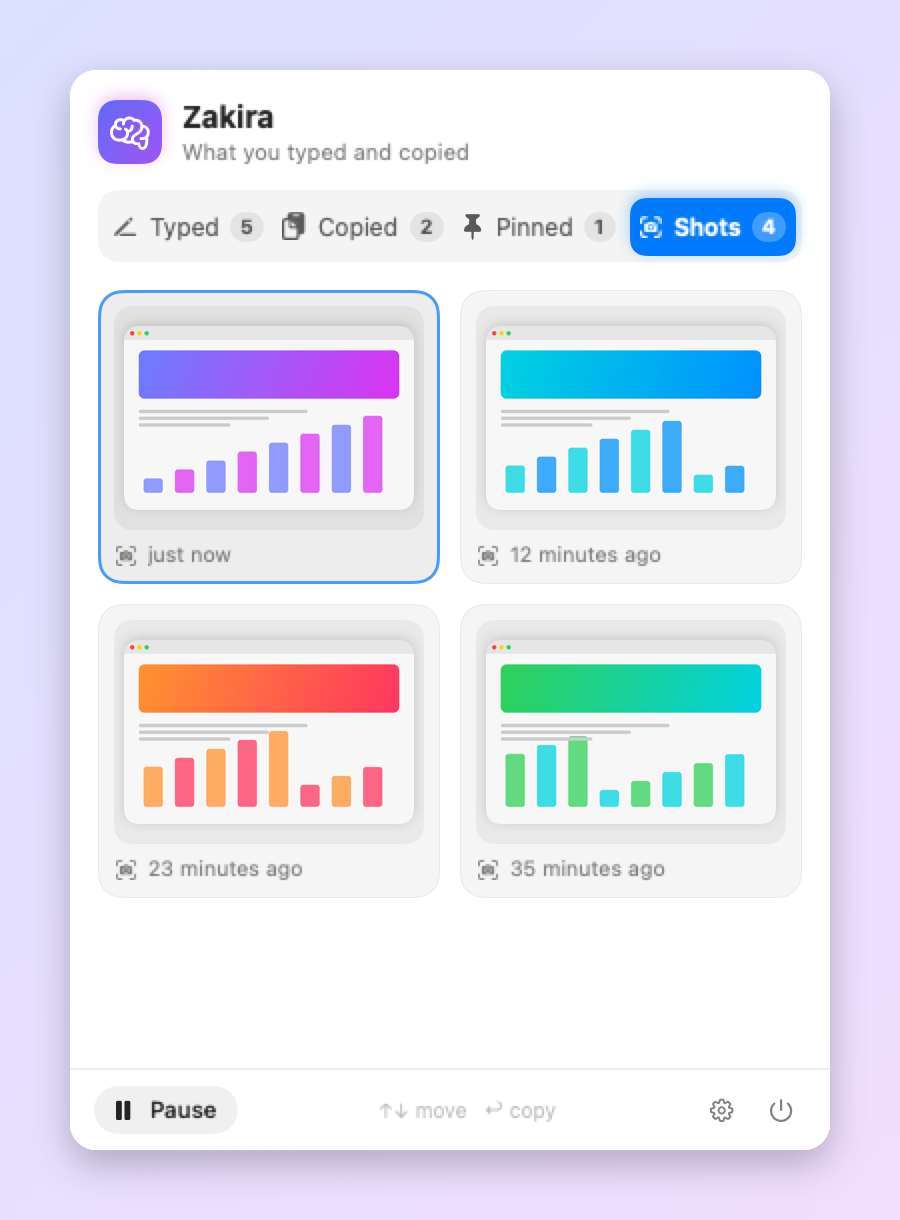
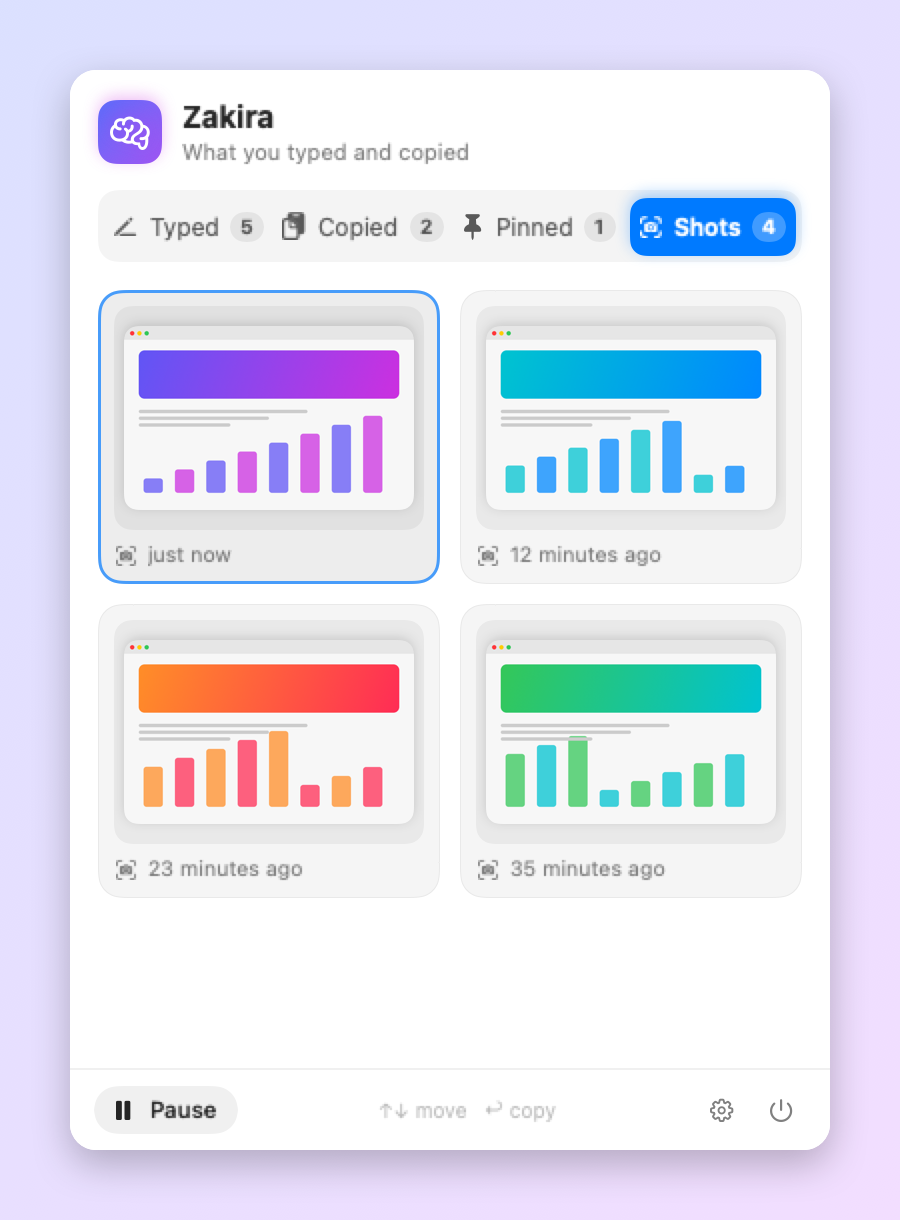
Split the entry card view so slower compilers can type-check it

diff --git a/Sources/Views.swift b/Sources/Views.swift
@@ -297,94 +297,116 @@ struct EntryCard: View {
     @State private var hovering = false
 
     var body: some View {
+        card
+            .contentShape(RoundedRectangle(cornerRadius: 12))
+            .onTapGesture(perform: onCopy)
+            .onHover { h in withAnimation(motion(.easeOut(duration: 0.15))) { hovering = h } }
+            .help(T("اضغط للنسخ", "Click to copy"))
+            .modifier(EntryAccessibility(label: accessibilityText, selected: selected, pinned: pinned,
+                                         isImage: entry.isImage, onCopy: onCopy, onPin: onPin, onDelete: onDelete))
+    }
+
+    // Split into small pieces so every Swift compiler can type-check it quickly.
+
+    private var card: some View {
+        content
+            .environment(\.layoutDirection, entry.isRTL ? .rightToLeft : .leftToRight)
+            .padding(.horizontal, 12)
+            .padding(.vertical, 10)
+            .background(background)
+            .overlay(border)
+            .overlay(alignment: .topTrailing) { hoverButtons }
+            .overlay { copiedFlash }
+    }
+
+    private var content: some View {
         HStack(alignment: .top, spacing: 10) {
             AppIcon(bundleID: entry.bundleID)
                 .frame(width: 22, height: 22)
                 .padding(.top, 1)
             VStack(alignment: .leading, spacing: 5) {
-                if let data = entry.image, let img = ImageCache.image(for: entry.id, data: data) {
-                    Image(nsImage: img)
-                        .resizable()
-                        .interpolation(.high)
-                        .aspectRatio(contentMode: .fit)
-                        .frame(maxWidth: .infinity, maxHeight: 110, alignment: .leading)
-                        .clipShape(RoundedRectangle(cornerRadius: 6, style: .continuous))
-                        .accessibilityHidden(true)
-                } else {
-                    Text(entry.text)
-                        .font(.system(size: 13.5))
-                        .lineSpacing(2)
-                        .lineLimit(hovering ? 8 : 2)
-                        .multilineTextAlignment(.leading)
-                        .frame(maxWidth: .infinity, alignment: .leading)
-                }
-                TimelineView(.periodic(from: .now, by: 30)) { _ in
-                    HStack(spacing: 4) {
-                        if pinned && tab != .pinned {
-                            Image(systemName: "pin.fill").font(.system(size: 8)).foregroundStyle(.orange)
-                        }
-                        Text(entry.appName)
-                        Text("·")
-                        Text(relative(entry.date))
-                    }
-                    .font(.system(size: 10.5))
-                    .foregroundStyle(.secondary)
-                    .lineLimit(1)
-                }
+                mainContent
+                meta
             }
         }
-        .environment(\.layoutDirection, entry.isRTL ? .rightToLeft : .leftToRight)
-        .padding(.horizontal, 12)
-        .padding(.vertical, 10)
-        .background(
-            RoundedRectangle(cornerRadius: 12, style: .continuous)
-                .fill(Color.primary.opacity(hovering || selected ? 0.085 : 0.045))
-        )
-        .overlay(
-            RoundedRectangle(cornerRadius: 12, style: .continuous)
-                .strokeBorder(selected ? Color.accentColor.opacity(0.7) : Color.primary.opacity(0.06), lineWidth: selected ? 1.5 : 0.5)
-        )
-        .overlay(alignment: .topTrailing) {
-            if hovering && !flashed {
-                HStack(spacing: 2) {
-                    if !entry.isImage {
-                        IconButton(symbol: tab == .pinned ? "pin.slash" : (pinned ? "pin.fill" : "pin"),
-                                   tint: pinned ? .orange : .secondary,
-                                   help: pinned ? T("إلغاء التثبيت", "Unpin") : T("تثبيت", "Pin"),
-                                   action: onPin)
-                    }
-                    IconButton(symbol: "trash", tint: .red, help: T("حذف", "Delete"), action: onDelete)
+    }
+
+    @ViewBuilder private var mainContent: some View {
+        if let data = entry.image, let img = ImageCache.image(for: entry.id, data: data) {
+            Image(nsImage: img)
+                .resizable()
+                .interpolation(.high)
+                .aspectRatio(contentMode: .fit)
+                .frame(maxWidth: .infinity, maxHeight: 110, alignment: .leading)
+                .clipShape(RoundedRectangle(cornerRadius: 6, style: .continuous))
+                .accessibilityHidden(true)
+        } else {
+            Text(entry.text)
+                .font(.system(size: 13.5))
+                .lineSpacing(2)
+                .lineLimit(hovering ? 8 : 2)
+                .multilineTextAlignment(.leading)
+                .frame(maxWidth: .infinity, alignment: .leading)
+        }
+    }
+
+    private var meta: some View {
+        TimelineView(.periodic(from: .now, by: 30)) { _ in
+            HStack(spacing: 4) {
+                if pinned && tab != .pinned {
+                    Image(systemName: "pin.fill").font(.system(size: 8)).foregroundStyle(.orange)
                 }
-                .padding(3)
-                .background(Capsule().fill(.regularMaterial))
-                .overlay(Capsule().strokeBorder(Color.primary.opacity(0.08), lineWidth: 0.5))
-                .padding(6)
+                Text(entry.appName)
+                Text("·")
+                Text(relative(entry.date))
+            }
+            .font(.system(size: 10.5))
+            .foregroundStyle(.secondary)
+            .lineLimit(1)
+        }
+    }
+
+    private var background: some View {
+        let opacity: Double = hovering || selected ? 0.085 : 0.045
+        return RoundedRectangle(cornerRadius: 12, style: .continuous).fill(Color.primary.opacity(opacity))
+    }
+
+    private var border: some View {
+        let color: Color = selected ? Color.accentColor.opacity(0.7) : Color.primary.opacity(0.06)
+        let width: CGFloat = selected ? 1.5 : 0.5
+        return RoundedRectangle(cornerRadius: 12, style: .continuous).strokeBorder(color, lineWidth: width)
+    }
+
+    @ViewBuilder private var hoverButtons: some View {
+        if hovering && !flashed {
+            HStack(spacing: 2) {
+                if !entry.isImage {
+                    IconButton(symbol: tab == .pinned ? "pin.slash" : (pinned ? "pin.fill" : "pin"),
+                               tint: pinned ? .orange : .secondary,
+                               help: pinned ? T("إلغاء التثبيت", "Unpin") : T("تثبيت", "Pin"),
+                               action: onPin)
+                }
+                IconButton(symbol: "trash", tint: .red, help: T("حذف", "Delete"), action: onDelete)
+            }
+            .padding(3)
+            .background(Capsule().fill(.regularMaterial))
+            .overlay(Capsule().strokeBorder(Color.primary.opacity(0.08), lineWidth: 0.5))
+            .padding(6)
+            .transition(.opacity)
+        }
+    }
+
+    @ViewBuilder private var copiedFlash: some View {
+        if flashed {
+            RoundedRectangle(cornerRadius: 12, style: .continuous)
+                .fill(Color.green.opacity(0.14))
+                .overlay(
+                    Label(T("تم النسخ", "Copied"), systemImage: "checkmark.circle.fill")
+                        .font(.system(size: 13, weight: .semibold))
+                        .foregroundStyle(.green)
+                )
                 .transition(.opacity)
-            }
         }
-        .overlay {
-            if flashed {
-                RoundedRectangle(cornerRadius: 12, style: .continuous)
-                    .fill(Color.green.opacity(0.14))
-                    .overlay(
-                        Label(T("تم النسخ", "Copied"), systemImage: "checkmark.circle.fill")
-                            .font(.system(size: 13, weight: .semibold))
-                            .foregroundStyle(.green)
-                    )
-                    .transition(.opacity)
-            }
-        }
-        .contentShape(RoundedRectangle(cornerRadius: 12))
-        .onTapGesture(perform: onCopy)
-        .onHover { h in withAnimation(motion(.easeOut(duration: 0.15))) { hovering = h } }
-        .help(T("اضغط للنسخ", "Click to copy"))
-        .accessibilityElement(children: .ignore)
-        .accessibilityLabel(accessibilityText)
-        .accessibilityHint(T("اضغط للنسخ", "Click to copy"))
-        .accessibilityAddTraits(selected ? [.isButton, .isSelected] : .isButton)
-        .accessibilityAction { onCopy() }
-        .accessibilityAction(named: pinned ? T("إلغاء التثبيت", "Unpin") : T("تثبيت", "Pin")) { if !entry.isImage { onPin() } }
-        .accessibilityAction(named: T("حذف", "Delete")) { onDelete() }
     }
 
     private var accessibilityText: String {
@@ -1028,5 +1050,29 @@ struct UpdatesSettings: View {
             Spacer()
             Toggle("", isOn: $updates.autoCheck).labelsHidden().toggleStyle(.switch).controlSize(.small)
         }
+    }
+}
+
+
+struct EntryAccessibility: ViewModifier {
+    let label: String
+    let selected: Bool
+    let pinned: Bool
+    let isImage: Bool
+    let onCopy: () -> Void
+    let onPin: () -> Void
+    let onDelete: () -> Void
+
+    func body(content: Content) -> some View {
+        let traits: AccessibilityTraits = selected ? [.isButton, .isSelected] : .isButton
+        let pinName: String = pinned ? T("إلغاء التثبيت", "Unpin") : T("تثبيت", "Pin")
+        return content
+            .accessibilityElement(children: .ignore)
+            .accessibilityLabel(label)
+            .accessibilityHint(T("اضغط للنسخ", "Click to copy"))
+            .accessibilityAddTraits(traits)
+            .accessibilityAction { onCopy() }
+            .accessibilityAction(named: pinName) { if !isImage { onPin() } }
+            .accessibilityAction(named: T("حذف", "Delete")) { onDelete() }
     }
 }
